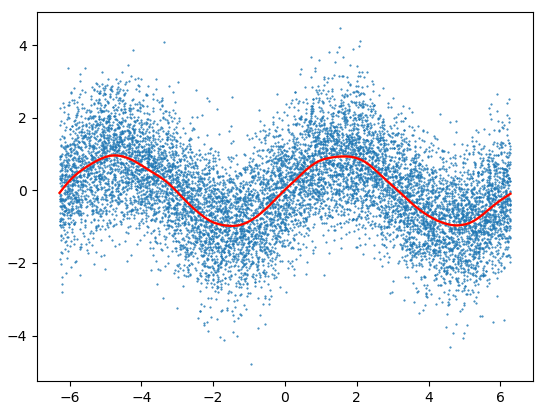
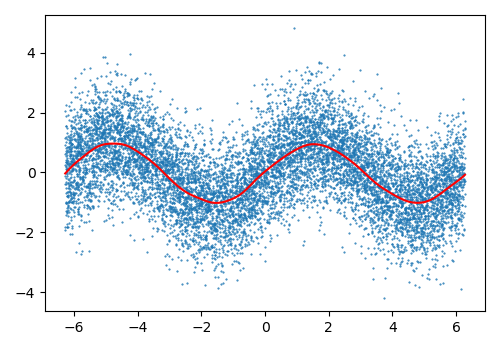
Tweak image size

diff --git a/README.md b/README.md
@@ -49,7 +49,9 @@ lowesslib:
 For the `smooth` example above we get the following results:
 
 ```python
+figure(figsize=(5,3.5))
 plot(x, y, '.', ms=1)
 plot(*lowesslib.smooth(x, y, xi, 0.4), color='r')
+tight_layout()
 ```
 ![figure_1](img/Figure_1.png)
